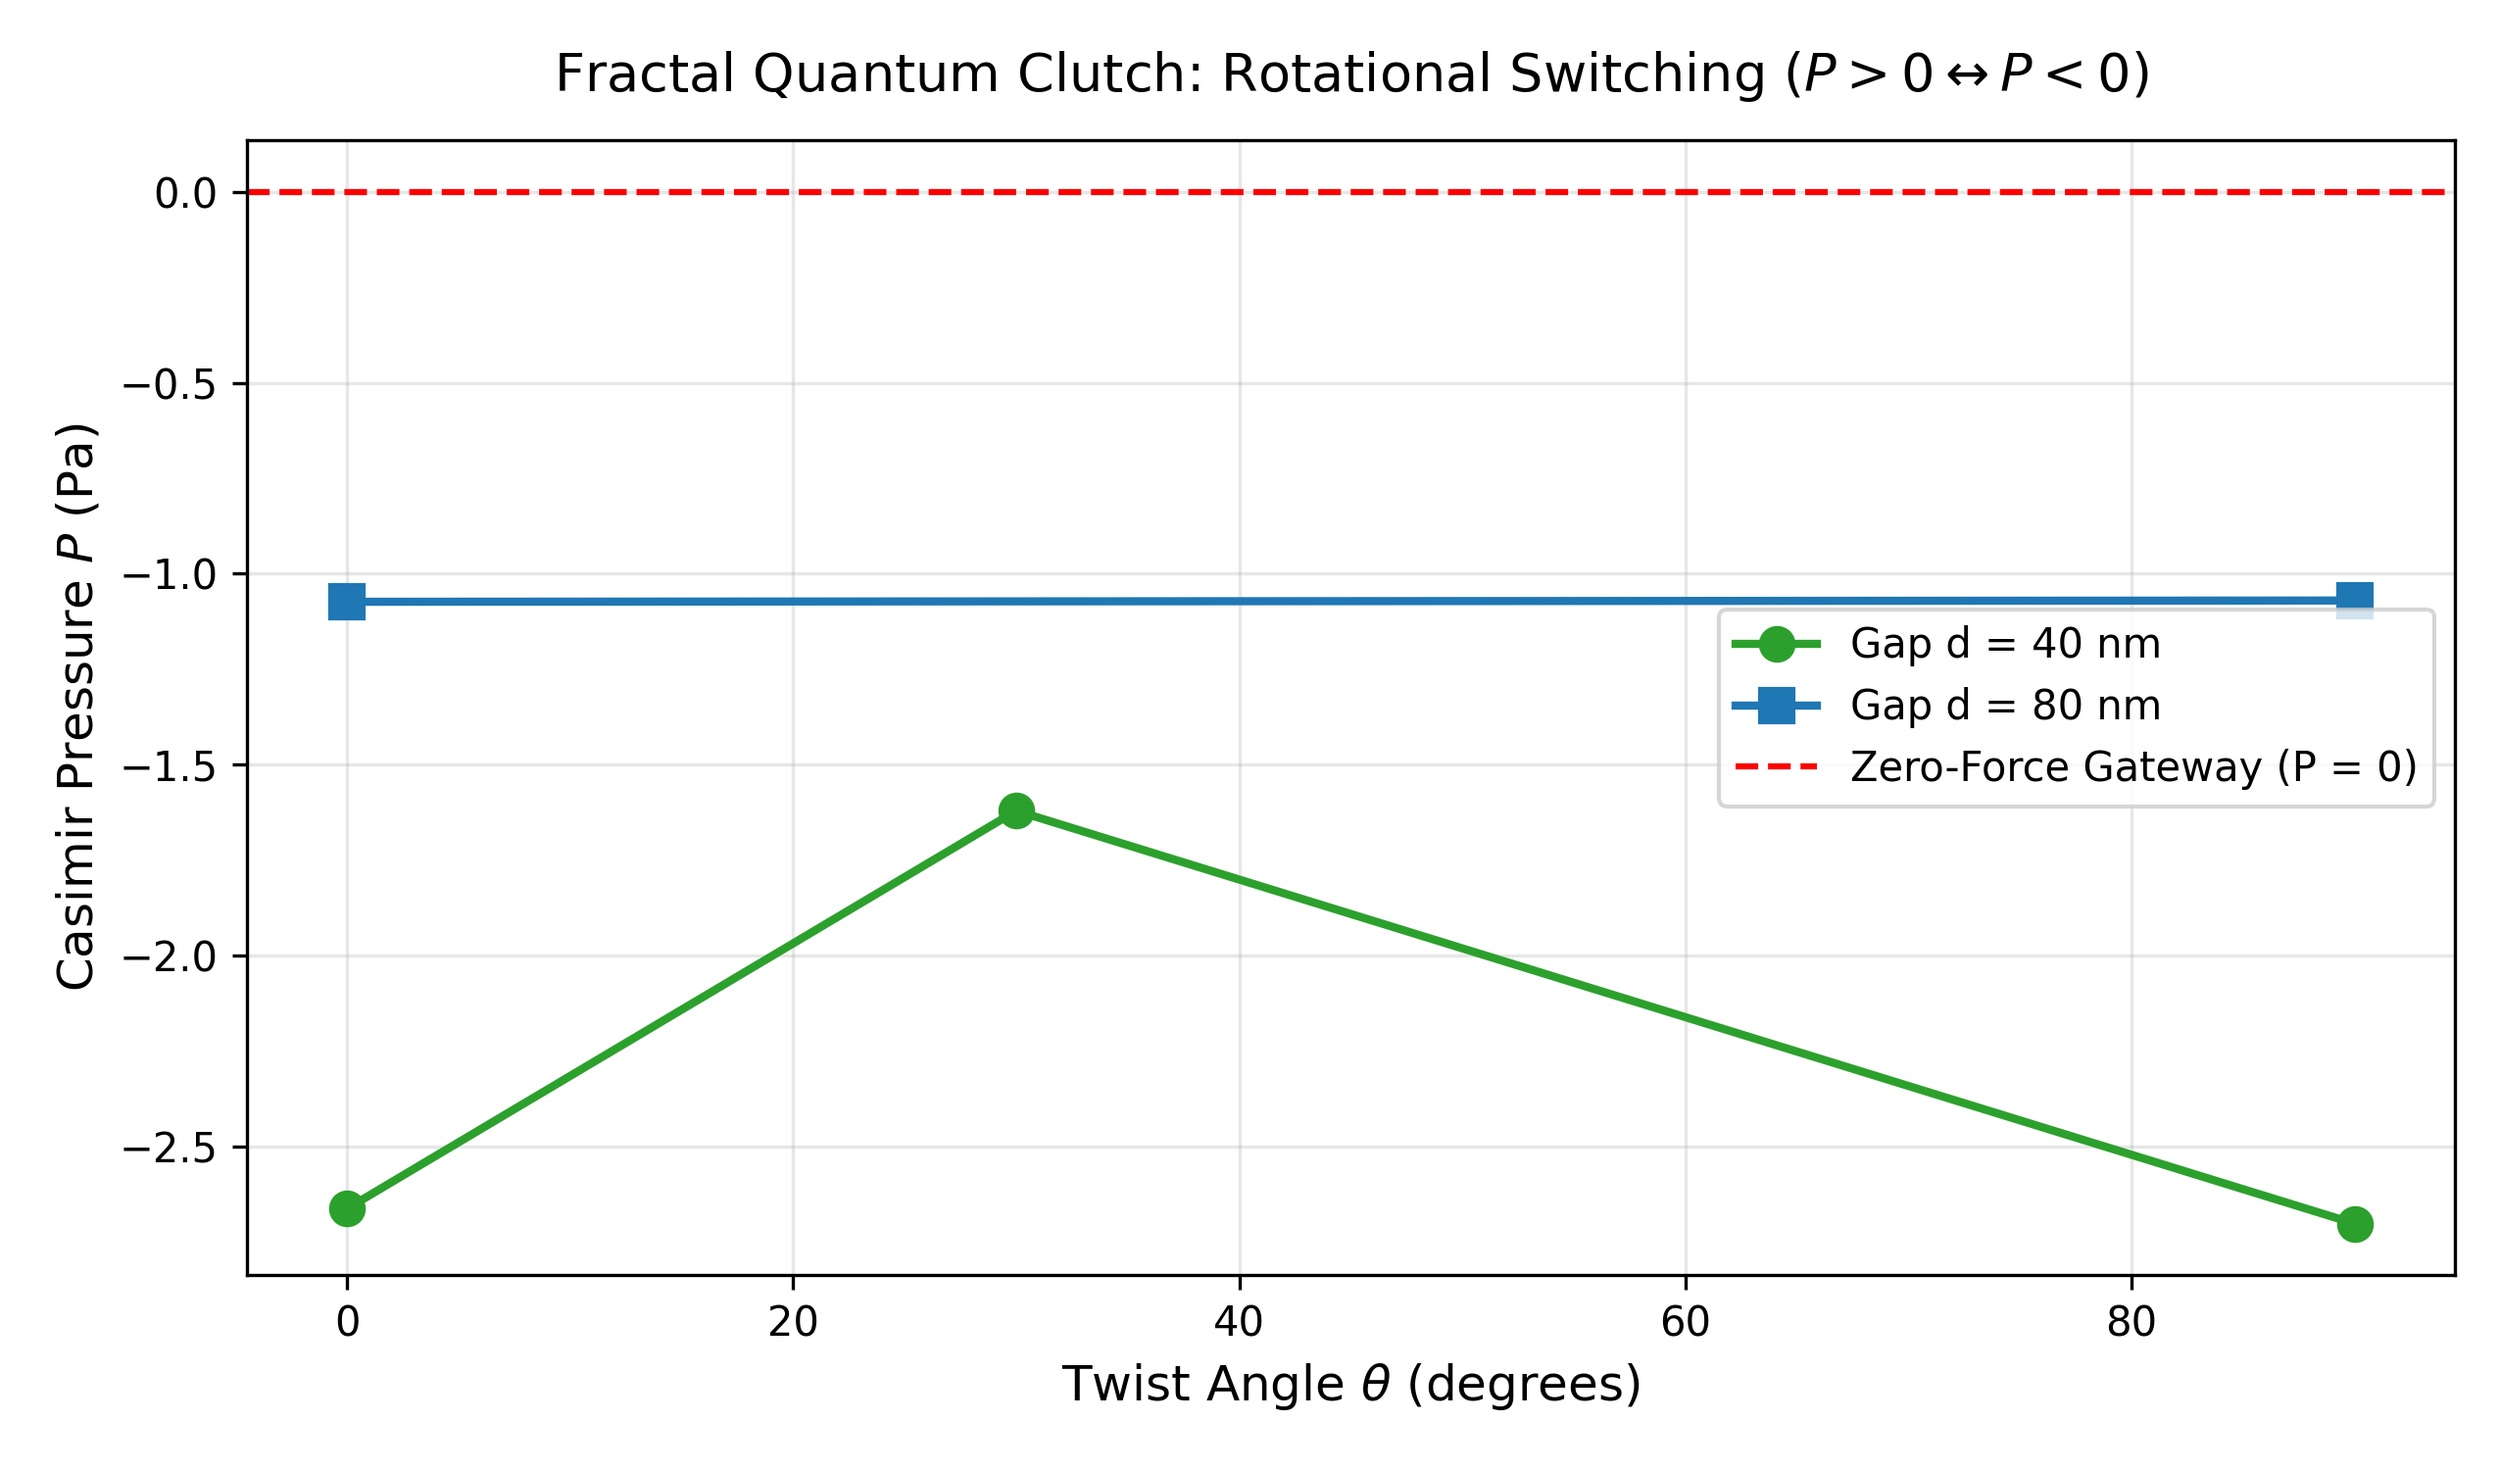
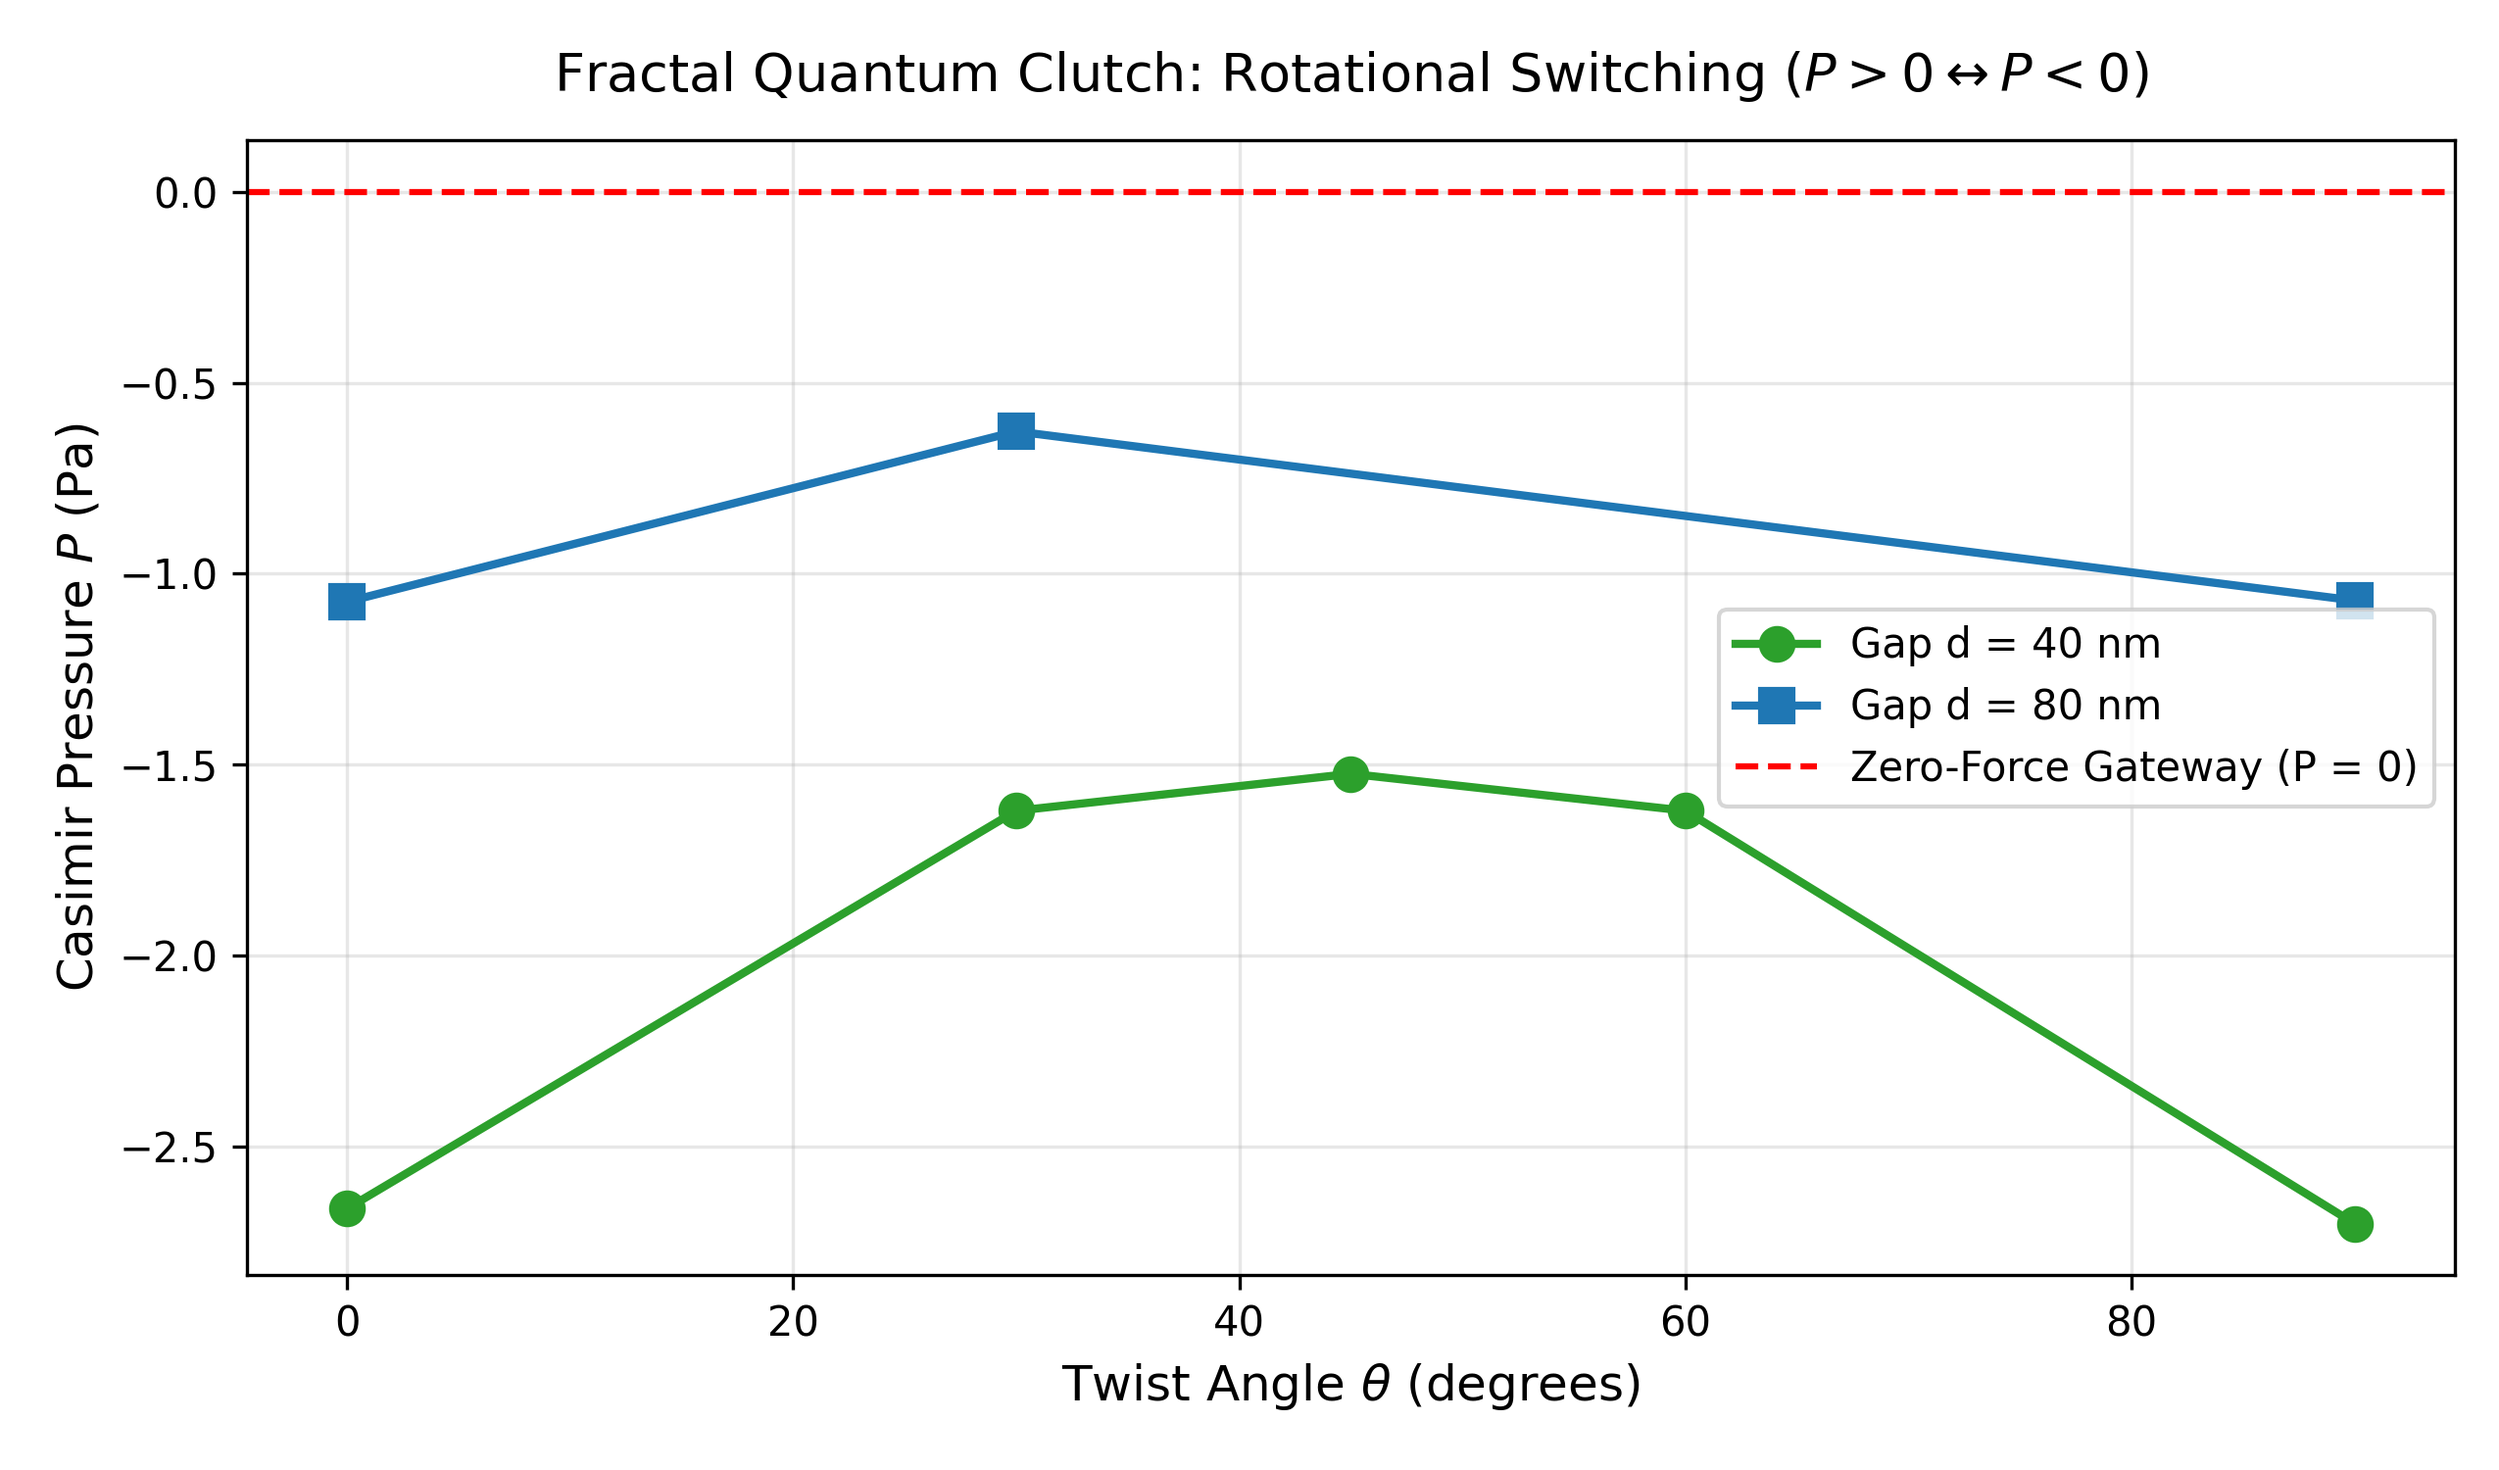
results(quantum_clutch): update summary, tables, and figures [8/10 completed]

diff --git a/Papers/Fractal_Casimir_Nature_EM/tables/table_quantum_clutch.tex b/Papers/Fractal_Casimir_Nature_EM/tables/table_quantum_clutch.tex
@@ -9,11 +9,11 @@
 \midrule
  1 & $40\text{ nm}$ & $0.0^\circ$ & $-2.662521$ Pa & Engaged & Attractive ($P<0$) \\
  2 & $40\text{ nm}$ & $30.0^\circ$ & $-1.620758$ Pa & Engaged & Attractive ($P<0$) \\
- 3 & $40\text{ nm}$ & $45.0^\circ$ & Pending & --- & Pending \\
- 4 & $40\text{ nm}$ & $60.0^\circ$ & Pending & --- & Pending \\
+ 3 & $40\text{ nm}$ & $45.0^\circ$ & $-1.523928$ Pa & Engaged & Attractive ($P<0$) \\
+ 4 & $40\text{ nm}$ & $60.0^\circ$ & $-1.620660$ Pa & Engaged & Attractive ($P<0$) \\
  5 & $40\text{ nm}$ & $90.0^\circ$ & $-2.701521$ Pa & Engaged & Attractive ($P<0$) \\
  6 & $80\text{ nm}$ & $0.0^\circ$ & $-1.073590$ Pa & Engaged & Attractive ($P<0$) \\
- 7 & $80\text{ nm}$ & $30.0^\circ$ & Pending & --- & Pending \\
+ 7 & $80\text{ nm}$ & $30.0^\circ$ & $-0.627443$ Pa & Engaged & Attractive ($P<0$) \\
  8 & $80\text{ nm}$ & $45.0^\circ$ & Pending & --- & Pending \\
  9 & $80\text{ nm}$ & $60.0^\circ$ & Pending & --- & Pending \\
 10 & $80\text{ nm}$ & $90.0^\circ$ & $-1.070245$ Pa & Engaged & Attractive ($P<0$) \\
